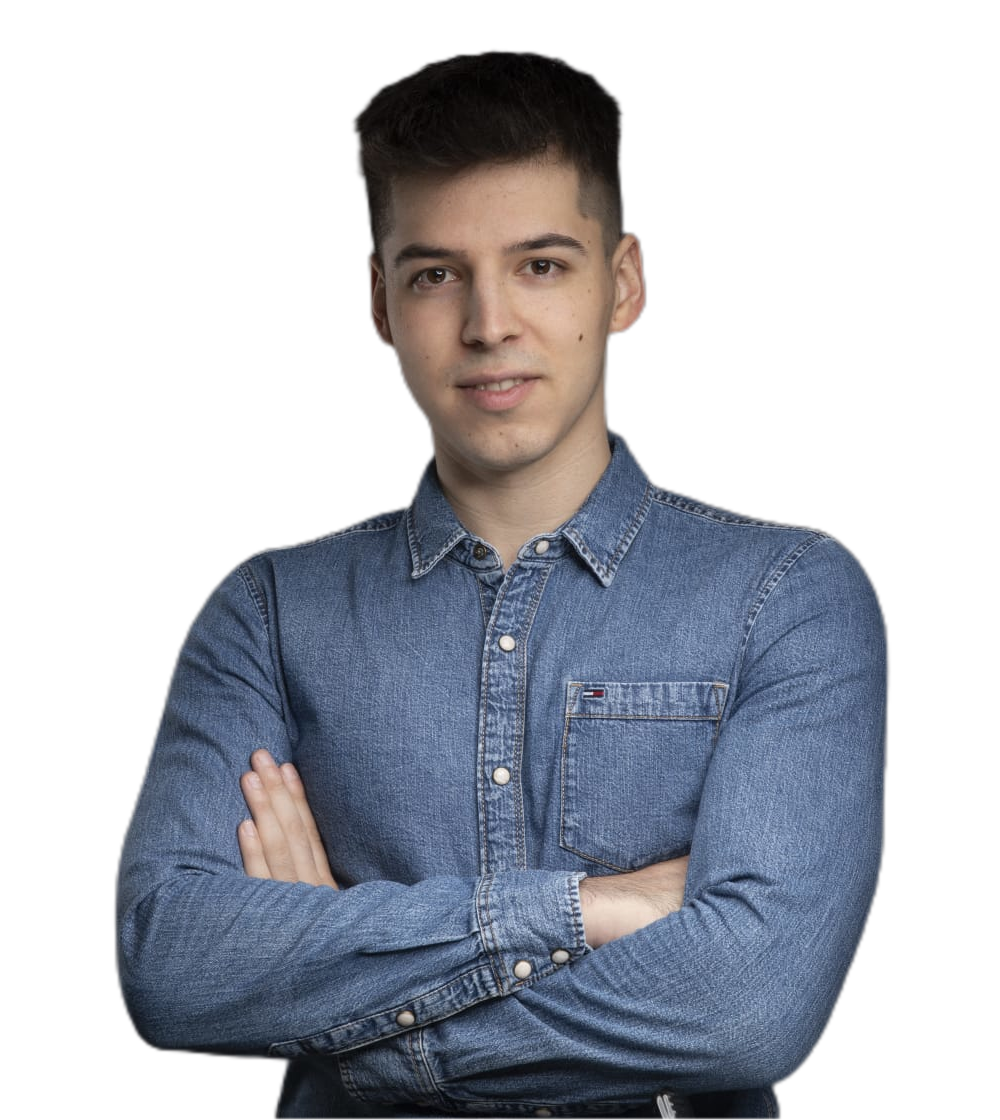
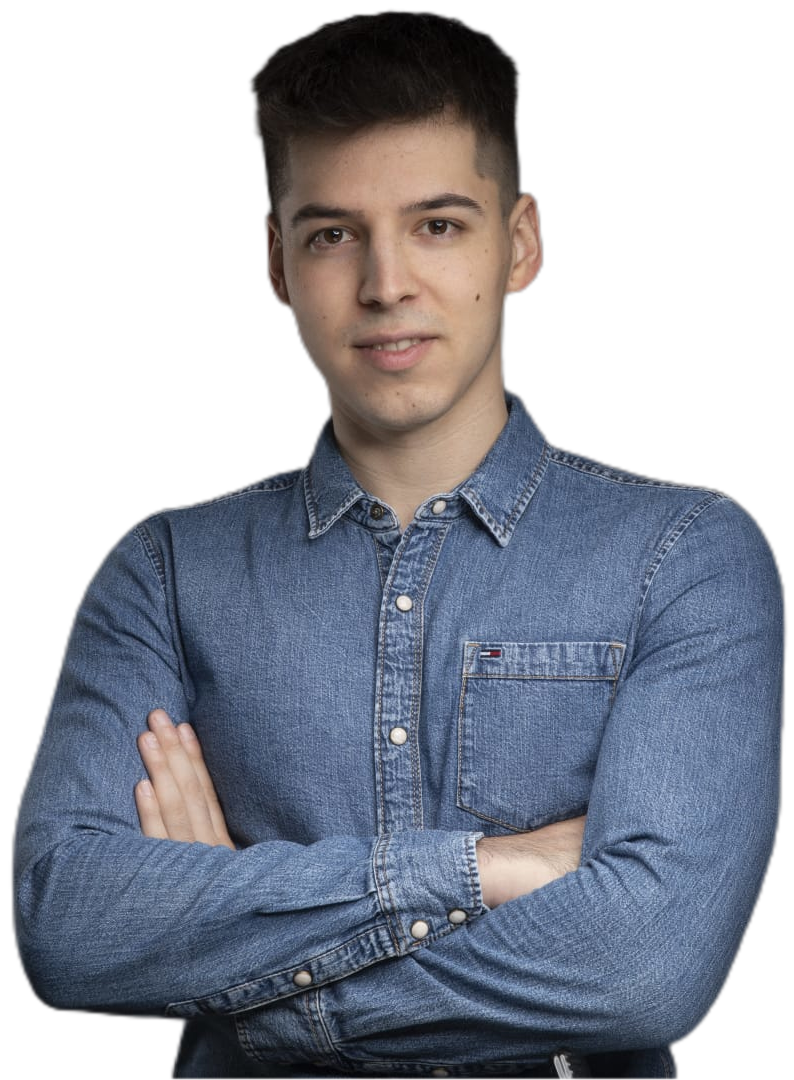
hover effect is now only on portrait and changed some progress-bar animations

diff --git a/src/components/styles.css b/src/components/styles.css
@@ -9,25 +9,18 @@
     background-color: green;
 }
 
-
 /* Default styles for screens larger than 720px wide */
 .portrait-style {
-    max-width: 80%;
+    max-width: 70%;
     /* Set the maximum width as a percentage of the viewport */
-    min-width: 400px;
-    /* Set the minimum width */
     display: block;
     /* Ensure the container behaves as a block element */
-   
     display: flex;
     justify-content: center;
     align-items: center;
     overflow: hidden;
     /* Hide overflow to prevent scrollbars during animation */
 }
-
-
-
 
 /* Media query for screens up to 720px wide */
 @media (max-width: 768px) {
@@ -43,10 +36,42 @@
     }
 }
 
+.split-space{
+    width: 50%;
+}
+
 .container {
     position: relative;
     /* Required for positioning the child element */
     display: flex;
+}
+
+.animated-image {
+    animation: slideUpAndFade 1s ease-in-out forwards;
+    /* Animation name, duration, and timing function */
+    opacity: 0;
+
+    /* Initial opacity, set to 0% */
+    /* Apply the scaling transform only when hovered */
+    
+}
+
+@keyframes slideUpAndFade {
+    0% {
+        transform: translateY(20px);
+        /* Initial position, translate 20px down */
+        opacity: 0;
+        /* Initial opacity, set to 0% */
+    }
+
+    100% {
+        transform: translateY(0);
+        /* Final position, no translation */
+        opacity: 1;
+        /* Final opacity, set to 100% */
+
+        
+    }
 }
 
 .box {
@@ -54,17 +79,21 @@
     border: 0px solid #ccc;
     padding: 10px;
     text-align: center;
-    transition: transform 0.4s ease; /* Add a smooth transition for scaling */
-
+    /* Add a smooth transition for scaling */
 }
 
-.box:hover{
-    transform: scale(1.05); /* Increase the size by 10% on hover */
-    -webkit-filter: drop-shadow(0px 0px 7px rgba(224, 255, 52, 0.5)); /*required for old versions of browser*/
-     filter: drop-shadow(0px 0px 7px rgba(0, 0, 0, 0.1));
+.grow{ /* On hover the element grows a bit */
+    border: 0px solid #c90808;
+    transition: transform 0.4s ease;
 }
 
-
+.grow:hover {
+    transform: scale(1.05);
+    /* Increase the size by 10% on hover */
+    -webkit-filter: drop-shadow(0px 0px 7px rgba(224, 255, 52, 0.5));
+    /*required for old versions of browser*/
+    filter: drop-shadow(0px 0px 7px rgba(0, 0, 0, 0.1));
+}
 
 .center-vertical {
     margin-top: auto;
@@ -78,7 +107,7 @@
     margin-right: auto;
 }
 
-.align-bottom{
+.align-bottom {
     margin-bottom: auto;
 }
 
@@ -103,31 +132,6 @@
 
 }
 
-
-.animated-image {
-    animation: slideUpAndFade 2s ease-in-out forwards;
-    /* Animation name, duration, and timing function */
-    opacity: 0;
-    /* Initial opacity, set to 0% */
-}
-
-@keyframes slideUpAndFade {
-    0% {
-        transform: translateY(20px);
-        /* Initial position, translate 20px down */
-        opacity: 0;
-        /* Initial opacity, set to 0% */
-    }
-
-    100% {
-        transform: translateY(0);
-        /* Final position, no translation */
-        opacity: 1;
-        /* Final opacity, set to 100% */
-    }
-}
-
-
 .tooltip-text {
     visibility: hidden;
     background-color: #333;
@@ -136,33 +140,39 @@
     border-radius: 3px;
     position: absolute;
     top: -30px;
-    left: 50%; /* Center the tooltip horizontally */
-    transform: translateX(-50%); /* Center the tooltip horizontally */
+    left: 50%;
+    /* Center the tooltip horizontally */
+    transform: translateX(-50%);
+    /* Center the tooltip horizontally */
     /* Position the tooltip above the icon */
     white-space: nowrap;
 }
 
 
 #hyperlink {
-    color: black; /* Change the link color to black */
+    color: black;
+    /* Change the link color to black */
     text-decoration: none;
-    
+
 }
 
 #hyperlink:hover {
-    color: blue; /* Change the link color to blue on hover */
+    color: blue;
+    /* Change the link color to blue on hover */
 }
 
 .custom-tooltip:hover .tooltip-text {
     visibility: visible;
 }
+
 .custom-tooltip {
     position: relative;
     /* Make sure the tooltip is positioned relative to the container */
-    margin-left: 0px; /* Add some spacing between the table and tooltip */
+    margin-left: 0px;
+    /* Add some spacing between the table and tooltip */
 }
 
-.flex{
+.flex {
     display: flex;
     justify-content: center;
     align-items: flex-start;
@@ -173,12 +183,30 @@
     background-color: yellow;
 }
 
+.blue {
+    display: flex;
+    background-color: blue;
+}
+
+.green {
+    display: flex;
+    background-color: green;
+}
+
+.yellow {
+    display: flex;
+    background-color: yellow;
+}
+
+
+
 .absolute {
-    
+
     position: absolute;
 
 }
 
 .up {
-    vertical-align: bottom; /* Adjust this value to move it to the top of the cell */
+    vertical-align: bottom;
+    /* Adjust this value to move it to the top of the cell */
 }

diff --git a/src/components/Content.js b/src/components/Content.js
@@ -11,30 +11,32 @@ function Content() {
         <>
 
             <div class="center-div container">
-                <div class="box">
-                    
-                    <img src={portraitImage} className="portrait-style center-horizontal animated-image" alt="Portrait" />
+                <div class=" split-space">
+                    <div class="animated-image ">
+                    <img src={portraitImage} className="portrait-style center-horizontal grow " alt="Portrait" />
+
+                    </div>
 
                 </div>
 
-                <div class="center-vertical box">
+                <div class="center-vertical box grow split-space">
                     <p>
                         Test
                     </p>
-                    <AnimatedProgressBar value={25} color="green" duration={1000} />
+                    <AnimatedProgressBar value={25} color="green" offset={800} duration={2000} />
                     <p>
                         Test
                     </p>
-                    <AnimatedProgressBar value={50} color="DeepSkyBlue" duration={1500} />
+                    <AnimatedProgressBar value={50} color="DeepSkyBlue" offset={1000} duration={2000} />
 
                     <p>
                         Test
                     </p>
-                    <AnimatedProgressBar value={75} color="Orange" duration={2000} />
+                    <AnimatedProgressBar value={75} color="Orange" offset={1200} duration={2000} />
                     <p>
                         Test
                     </p>
-                    <AnimatedProgressBar value={100} color="FireBrick " duration={2500} />
+                    <AnimatedProgressBar value={100} color="FireBrick " offset={1400} duration={2000} />
 
 
                     <div class="flex">

diff --git a/src/components/AnimatedProgressBar.js b/src/components/AnimatedProgressBar.js
@@ -1,27 +1,40 @@
 import React, { useState, useEffect } from 'react';
 
-function AnimatedProgressBar({ value,color,duration }) {
+function AnimatedProgressBar({ value, color, offset, duration }) {
     const [progress, setProgress] = useState(0);
 
     useEffect(() => {
-        // Set the progress to the specified value after the component mounts
-        setProgress(value);
-    }, [value]);
+        // Use setTimeout to delay setting the progress state by the specified offset
+        const timeoutId = setTimeout(() => {
+            setProgress(value);
+        }, offset);
+
+        return () => {
+            // Clear the timeout if the component unmounts before the offset is reached
+            clearTimeout(timeoutId);
+        };
+    }, [value, offset]);
 
     const progressStyle = {
         width: `${progress}%`,
-        backgroundColor: color, // Use the color prop as the background color
-        transition: `width ${duration}ms ease-out`, // Specify the animation duration
+        backgroundColor: color,
+        transition: `width ${duration}ms ease-out`,
     };
 
     return (
-        <div className="progress" role="progressbar" aria-label="Success example" aria-valuenow={progress} aria-valuemin={0} aria-valuemax={100}>
-            <div className="progress-bar" style={progressStyle}>{progress}%</div>
+        <div
+            className="progress"
+            role="progressbar"
+            aria-label="Progress bar"
+            aria-valuenow={progress}
+            aria-valuemin={0}
+            aria-valuemax={100}
+        >
+            <div className="progress-bar" style={progressStyle}>
+                {progress}%
+            </div>
         </div>
     );
 }
 
 export default AnimatedProgressBar;
-
-
-
